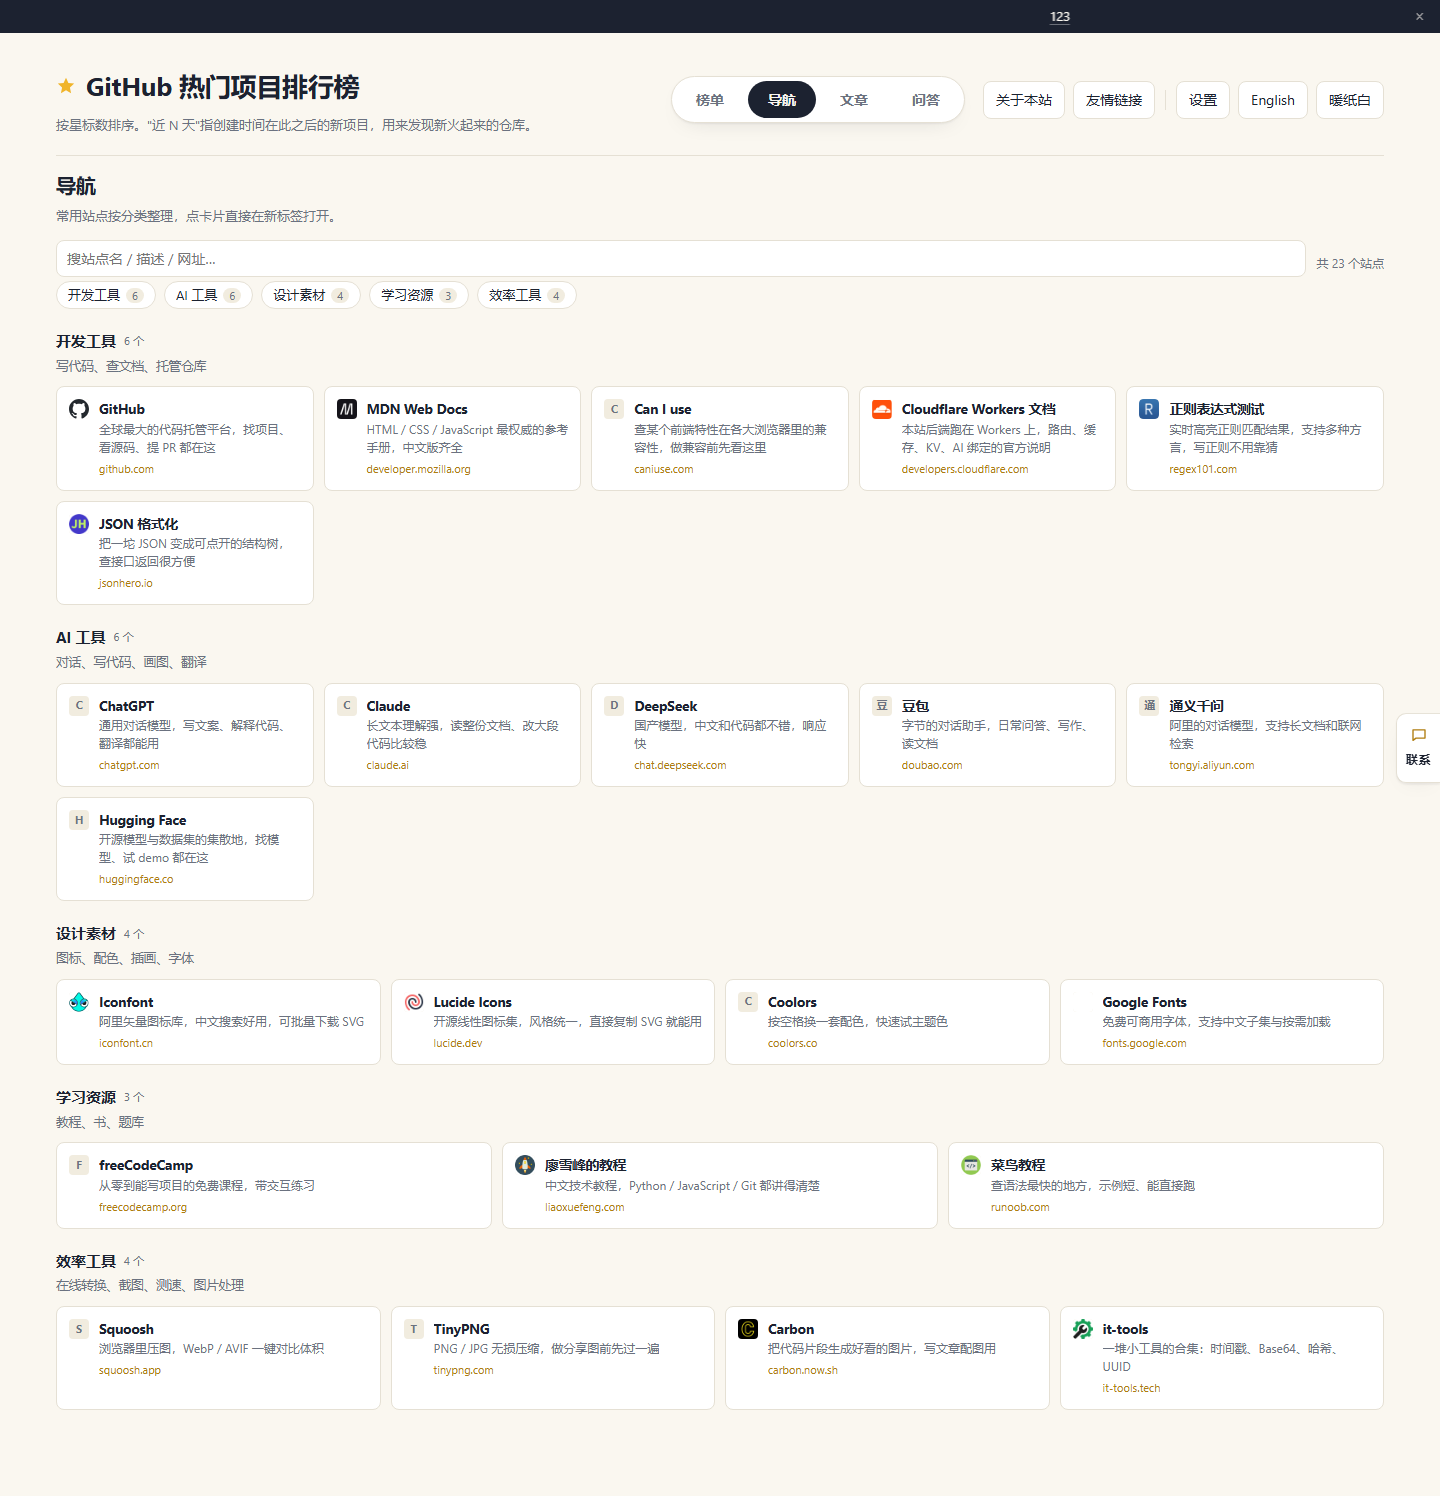
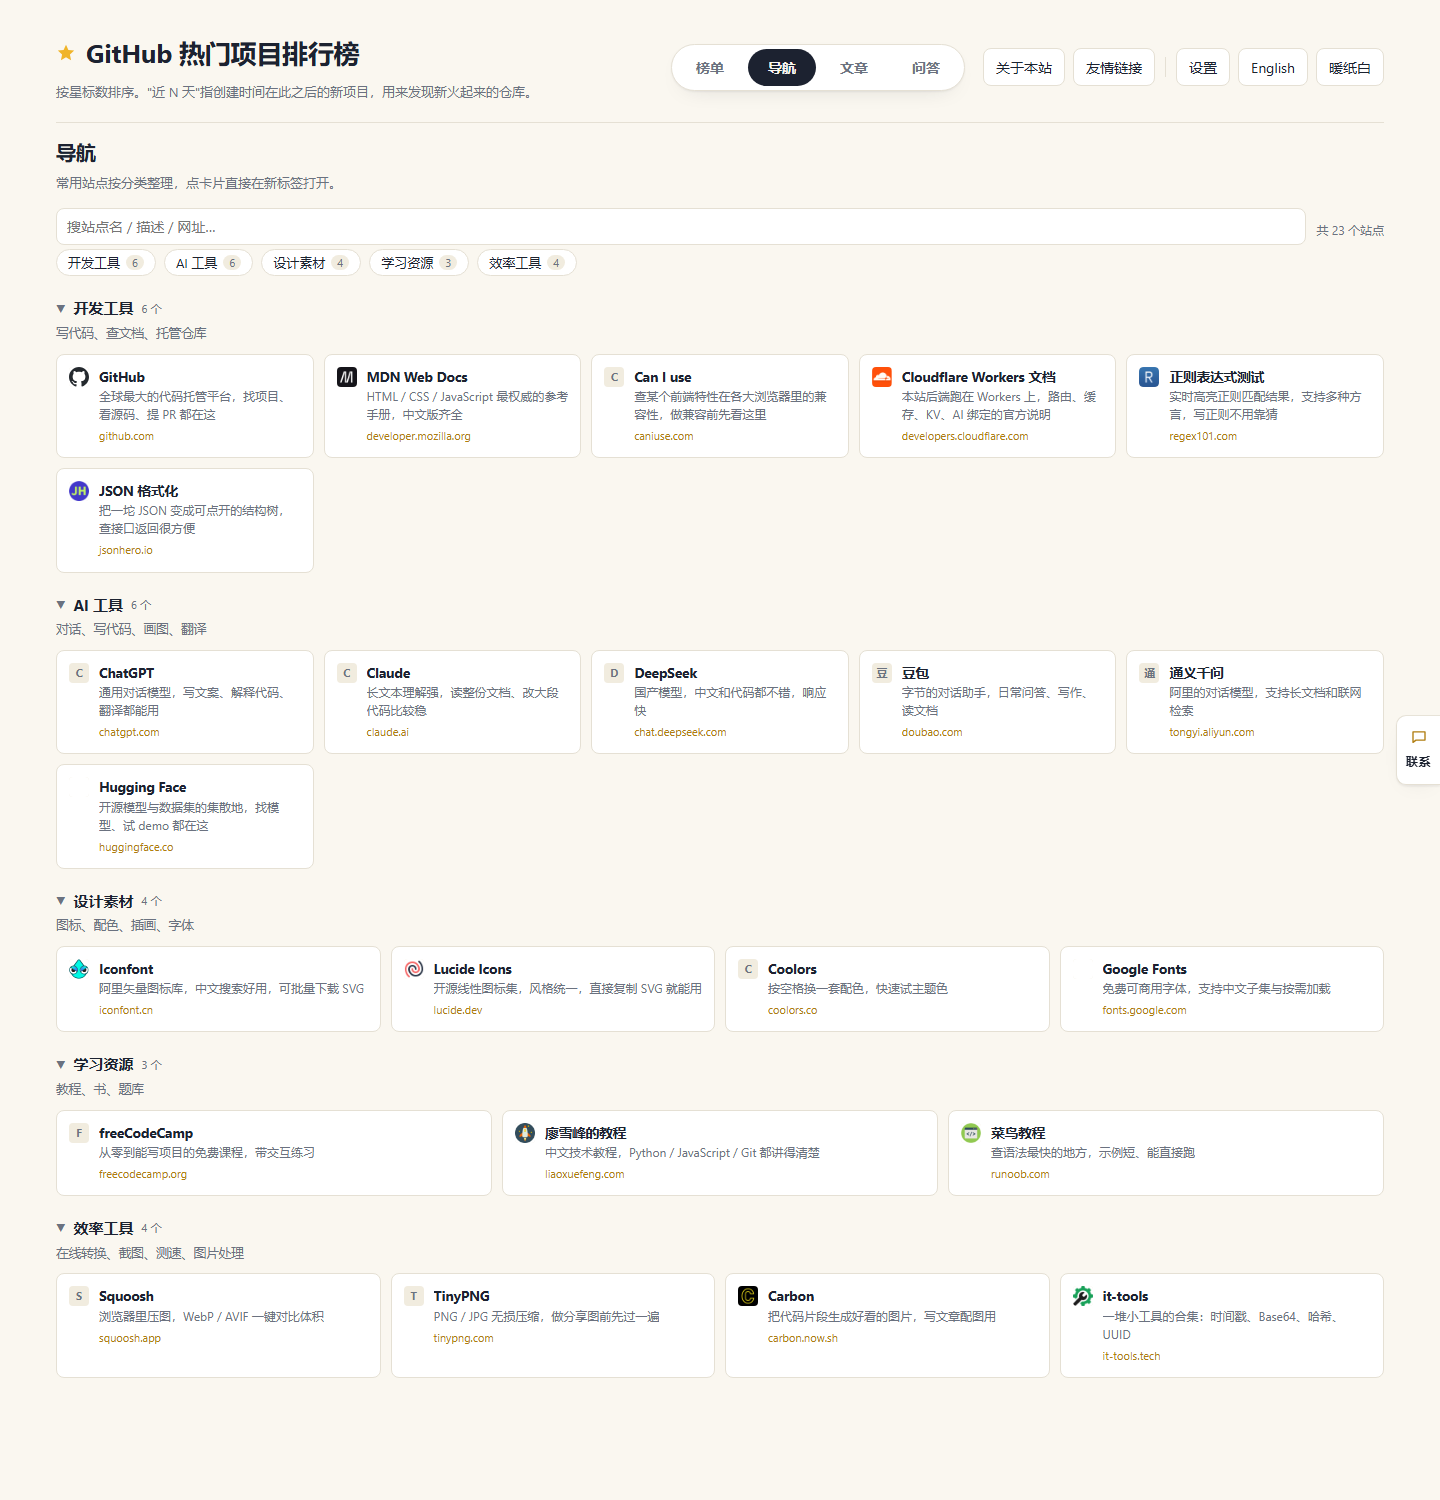
feat: 导航页「显示全部」展开状态跨刷新保留（localStorage ghrank-nav-open）+ 门禁 check-nav-persist；v138

diff --git a/index.html b/index.html
@@ -1266,6 +1266,8 @@ html[data-theme="ink"] meta,html[data-theme="ink"]{color-scheme:dark}
     try{ var ncv=JSON.parse(localStorage.getItem('ghrank-nav-closed')||'{}'); if(ncv&&typeof ncv==='object') navClosed=ncv; }catch(e){ navClosed={}; }
     function navGroupKey(g, gi){ return String((g&&g.id)||('g'+gi)); }
     var NAV_PAGE=12, navOpen={};
+    // 「显示全部」的展开状态也记下来：刷新/从榜单切回来别又缩回 12 个
+    try{ var nov=JSON.parse(localStorage.getItem('ghrank-nav-open')||'{}'); if(nov&&typeof nov==='object') navOpen=nov; }catch(e){ navOpen={}; }
     function navHost(u){ try{ return new URL(u).hostname.replace(/^www\./,''); }catch(e){ return String(u); } }
     function escH(s){ return String(s==null?'':s).replace(/[&<>"']/g,function(c){ return {'&':'&amp;','<':'&lt;','>':'&gt;','"':'&quot;',"'":'&#39;'}[c]; }); }
     function navHl(s){
@@ -1344,6 +1346,7 @@ html[data-theme="ink"] meta,html[data-theme="ink"]{color-scheme:dark}
           if(more){
             var mk=more.getAttribute('data-gkey')||'';
             navOpen[mk]=1;
+            try{ localStorage.setItem('ghrank-nav-open', JSON.stringify(navOpen)); }catch(err3){}
             renderNav();
             var sec2=box.querySelector('.navgroup[data-gkey="'+mk+'"]');
             if(sec2) sec2.scrollIntoView({ block:'start', behavior:'auto' });

diff --git a/sw.js b/sw.js
@@ -1,5 +1,5 @@
 /* Service Worker：缓存页面外壳（HTML/JS/图标），让离线也能打开；GitHub API 不缓存，由页面自己的 localStorage 管理 */
-const CACHE = 'ghrank-shell-v137';
+const CACHE = 'ghrank-shell-v138';
 const SHELL = ['./', 'index.html', 'js/bundle.js', 'js/md.js', 'manifest.json', 'icon.svg'];
 // 只预缓存 meta（约 2KB）。榜单数据按 range 分文件、由页面按需加载，不再在安装时白下几�?KB
 const DATA = 'data/repos-meta.js';

diff --git a/worker.js b/worker.js
@@ -1630,7 +1630,7 @@ async function injectFaqLd(env, html) {
 
 // 静态资源版本：HTML 里的 /js/*.js 都会被加上 ?v=<这里>，于是能给浏览器一年 immutable；
 // 改了前端就把它 +1（不然用户浏览器会抱着一周的旧 bundle，界面上去点了没反应）
-const ASSET_V = 'v137';
+const ASSET_V = 'v138';
 
 function emptyNav() {
   return { updatedAt: '', groups: [] };

diff --git a/docs/优化建议.md b/docs/优化建议.md
@@ -3010,3 +3010,55 @@ window.addEventListener('popstate', function () {
 2. 写 URL 用 `replaceState`（输入类）还是 `pushState`（点击类）要想清楚：全用 push 会让后退键变成「退掉我打的每个字」；全用 replace 则翻页/切标签都没法后退回去。
 3. `syncUrl` 里对默认值（`cat=all`、`sort=new`、`page=1`）**要删参数而不是写进去**，否则地址栏会一直挂着 `?cat=all&sort=new&page=1` 这种噪声，分享出去也难看。
 4. 改完静态页要重启 dev-server（它启动时拷贝一份），否则门禁测的是旧代码。
+
+## §112 第 27 轮：导航页「显示全部」刷新后又缩回 12 个
+
+### 问题
+
+导航页每个分组默认只渲染前 12 个站点（防止一次塞几十张卡），点「显示全部 N 个」才展开。但**展开状态只存在内存里**：
+
+```js
+var NAV_PAGE = 12, navOpen = {};   // 刷新即丢
+```
+
+而同一个页面里「分组折叠」却是记在 `localStorage['ghrank-nav-closed']` 的 —— 两个相邻交互一个记一个不记，用户体感就是「折叠记得住，展开记不住」。
+
+### 做法（`index.html` 2 处）
+
+1. 初始化时从 `localStorage['ghrank-nav-open']` 还原：
+
+```js
+var NAV_PAGE = 12, navOpen = {};
+try { var nov = JSON.parse(localStorage.getItem('ghrank-nav-open') || '{}'); if (nov && typeof nov === 'object') navOpen = nov; } catch (e) { navOpen = {}; }
+```
+
+2. 点「显示全部」时写回：
+
+```js
+navOpen[mk] = 1;
+try { localStorage.setItem('ghrank-nav-open', JSON.stringify(navOpen)); } catch (err3) {}
+renderNav();
+```
+
+### 验证（`scripts/check-nav-persist.mjs`，9 项全绿）
+
+| 断言 | 说明 |
+| --- | --- |
+| 造数：新增 15 站分组 | 现有分组都 ≤6 站，触发不了「显示全部」 |
+| 默认只渲染 12 个站点卡 | 计数要排掉信息流广告位（`.navcard:not(.ad-inline-card)`） |
+| 点「显示全部」后 15 个 | 展开生效 |
+| 展开状态写进 localStorage | 值里含该分组 key |
+| **刷新后仍是 15 个** | 本轮要修的核心行为 |
+| 点击后第一个分组收起 | 折叠仍正常 |
+| 刷新后第一个分组仍是收起 | 折叠状态没被新一轮改动破坏 |
+| 清掉本地状态后回到 12 个 + 展开 | 兜底路径：脏数据不炸页面 |
+| 导航数据已还原 | 造数分组已删，`groups` 与原样一致（`updatedAt` 变动不算） |
+
+出图：`node scripts/tmp-shot-any.mjs /nav docs/shots/nav-page.png 1440 1500`（1440×1500：页头胶囊导航、搜索框「共 23 个站点」、5 个分组 6/6/4/3/4 张卡）。截图前临时把页头滚动条隐藏 —— 站点当前配置里滚动条文字是测试用的「123」，不该出现在文档图里（**只隐藏节点、没动数据**）。
+
+### 坑
+
+1. **相邻交互的持久化要一致**：折叠记、展开不记，看起来像 bug 但代码里各自都「正常」。巡检时把同屏同类状态列在一起对比，比逐个读代码更容易发现。
+2. 门禁统计站点卡时又踩了一次广告位：信息流广告位也用 `.navcard` 类，`querySelectorAll('.navcard')` 永远多 1 张，必须 `:not(.ad-inline-card)`。
+3. `Page.reload` 必须给 `ignoreCache: false` 之外的默认参数再等 ~2 秒：dev-server 返回的静态页有 60 秒成品缓存，等太短会读回旧 HTML，导致「刷新后仍 15 个」这类断言假绿。
+4. 站点数据里的测试残留（滚动条文字 `123`、友链 `123`）属于**用户自己在后台配的内容**，不擅自改；截图时用 CSS/DOM 临时隐藏，报告里点名。
